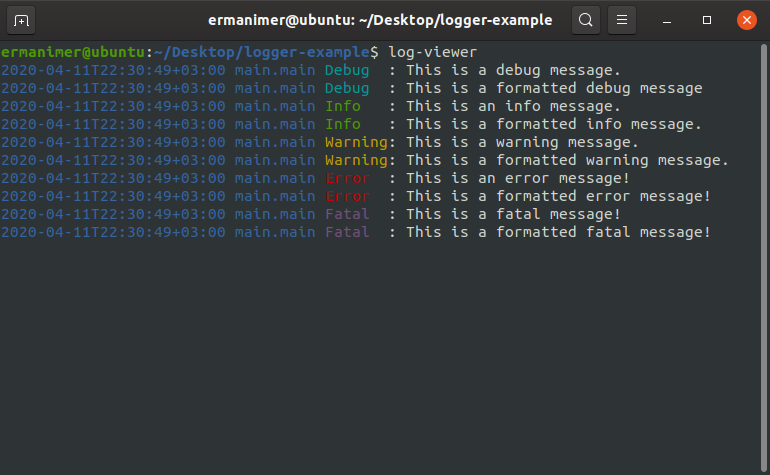
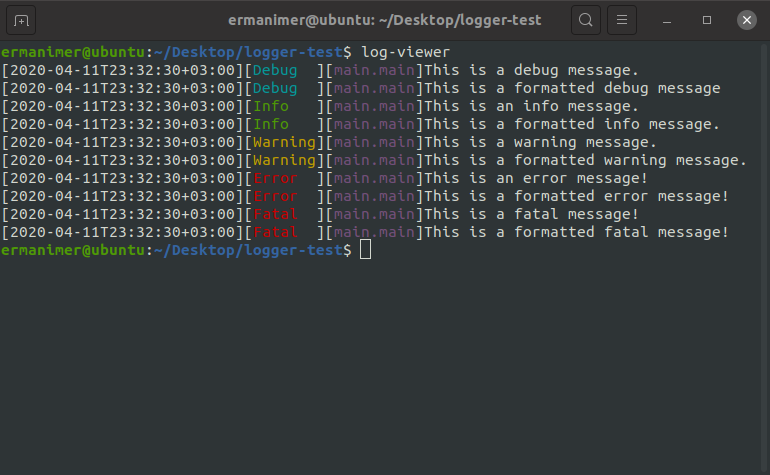
Update log message format and colors

diff --git a/log-viewer.go b/log-viewer.go
@@ -137,17 +137,11 @@ func updateLongestPrefixLength(prefix string) {
 }
 
 func viewLog(log *Log) {
-	setCallerFunctionLength(log)
 	setPrefixLength(log)
-	setDatetimeColor(log)
-	setCallerFunctionColor(log)
+	setCallerFunctionLength(log)
 	setPrefixColor(log)
-	fmt.Printf("%v %v %v: %v%v", log.datetime, log.callerFunction, log.prefix, log.message, newLine)
-}
-
-func setCallerFunctionLength(log *Log) {
-	padding := strings.Repeat(" ", longestCallerFunctionLength-len(log.callerFunction))
-	log.callerFunction = fmt.Sprintf("%v%v", log.callerFunction, padding)
+	setCallerFunctionColor(log)
+	fmt.Printf("[%v][%v][%v]%v%v", log.datetime, log.prefix, log.callerFunction, log.message, newLine)
 }
 
 func setPrefixLength(log *Log) {
@@ -155,12 +149,9 @@ func setPrefixLength(log *Log) {
 	log.prefix = fmt.Sprintf("%v%v", log.prefix, padding)
 }
 
-func setDatetimeColor(log *Log) {
-	log.datetime = color.Blue(log.datetime)
-}
-
-func setCallerFunctionColor(log *Log) {
-	log.callerFunction = color.Blue(log.callerFunction)
+func setCallerFunctionLength(log *Log) {
+	padding := strings.Repeat(" ", longestCallerFunctionLength-len(log.callerFunction))
+	log.callerFunction = fmt.Sprintf("%v%v", log.callerFunction, padding)
 }
 
 func setPrefixColor(log *Log) {
@@ -174,8 +165,12 @@ func setPrefixColor(log *Log) {
 	case errorPrefix:
 		log.prefix = color.Red(log.prefix)
 	case fatalPrefix:
-		log.prefix = color.Magenta(log.prefix)
+		log.prefix = color.Red(log.prefix)
 	}
+}
+
+func setCallerFunctionColor(log *Log) {
+	log.callerFunction = color.Magenta(log.callerFunction)
 }
 
 func printError(message string) {
